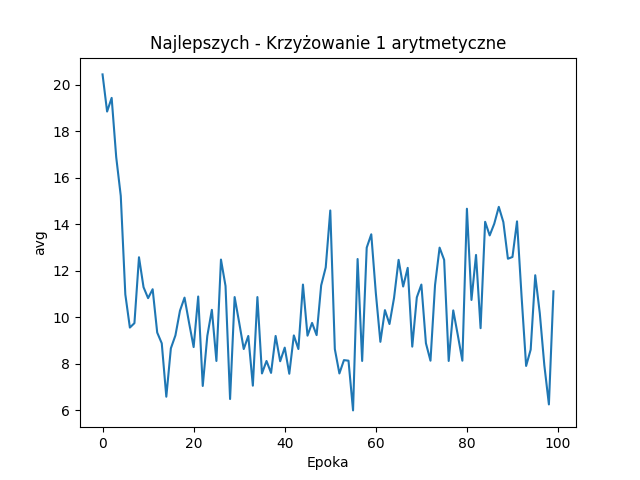
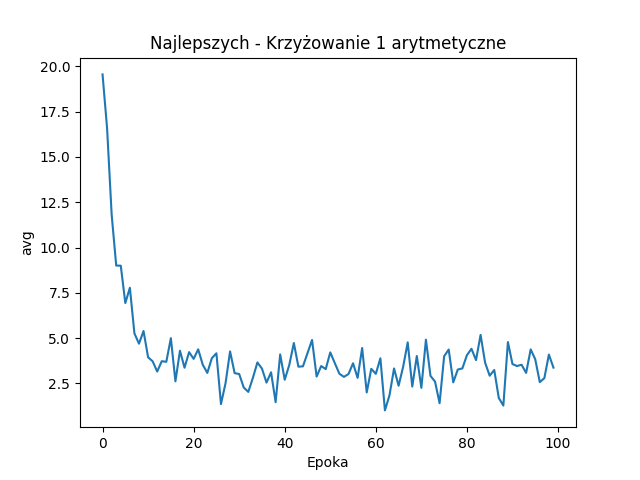
fixed mutations

diff --git a/main.py b/main.py
@@ -18,8 +18,8 @@ class MainWindow(QWidget):
     numberOfDimensions = 2
     q = 1
     tournament_size = 1
-    mean = 50
-    sigma = 5
+    mean = 0
+    sigma = 1
     start_value = -5  # Dodajemy deklarację atrybutu start_value
     end_value = 5
    
@@ -124,11 +124,11 @@ class MainWindow(QWidget):
                 self.mutationName = MutationMechods.UNIFORM_STRING.value
                 self.mutation_method = MutationMechods.UNIFORM
             case MutationMechods.GAUSS.value:
-                self.mean_label.setText(f'Średnia {self.mean_slider.value()}')
+                self.mean_label.setText(f'Średnia {self.mean_slider.value()/10}')
                 self.mean_label.show()
                 self.mean_slider.valueChanged.connect(self.set_mean)
                 self.mean_slider.show()
-                self.sigma_label.setText(f'Odchylenie standardowe {self.sigma_slider.value()}')
+                self.sigma_label.setText(f'Odchylenie standardowe {self.sigma_slider.value()/10}')
                 self.sigma_label.show()
                 self.sigma_slider.valueChanged.connect(self.set_sigma)
                 self.sigma_slider.show()
@@ -182,11 +182,11 @@ class MainWindow(QWidget):
         self.inversionProbLabel.setText(f'Prawdopodobieństwo inwersji {self.inversionProb}')
 
     def set_mean(self, val):
-        self.meanValue = val
+        self.meanValue = val / 10
         self.mean_label.setText(f'Średnia {self.meanValue}')
 
     def set_sigma(self, val):
-        self.sigmaValue = val
+        self.sigmaValue = val / 10
         self.sigma_label.setText(f'Odchylenie standardowe {self.sigmaValue}')
 
     def set_q(self, val):
@@ -207,11 +207,25 @@ class MainWindow(QWidget):
             self.func = FunctionsOptions.RASTRIGIN
             self.start_value = -5
             self.end_value = 5
-            
+            self.start_value_slider.setMinimum(-20)
+            self.start_value_slider.setMaximum(20)
+            self.start_value_slider.setValue(self.start_value) 
+            self.end_value_slider.setMinimum(-20)
+            self.end_value_slider.setMaximum(20)
+            self.end_value_slider.setValue(self.end_value)
+
+
         else:
             self.func = FunctionsOptions.SCHWEFEK
             self.start_value = -500
             self.end_value = 500
+            self.start_value_slider.setMinimum(-1000)
+            self.start_value_slider.setMaximum(1000) 
+            self.start_value_slider.setValue(self.start_value)
+            self.end_value_slider.setMinimum(-1000)
+            self.end_value_slider.setMaximum(1000)
+            self.end_value_slider.setValue(self.end_value)
+ 
         
         self.start_value_label.setText(f'Początkowy zakres: {self.start_value}')
         self.end_value_label.setText(f'Końcowy zakres: {self.end_value}')
@@ -291,17 +305,16 @@ class MainWindow(QWidget):
         #Range
         self.start_value_label = QLabel(f'Początkowy zakres: {self.start_value}')
         layout_items.append(self.start_value_label)
+        self.start_value_slider = makeSlider(-20, 20, self.start_value)
+        self.start_value_slider.valueChanged.connect(self.set_start_value)
+        layout_items.append(self.start_value_slider)
 
-        start_value_slider = makeSlider(-20 if self.rastrigin_radio.isChecked() else -1000, 20 if self.rastrigin_radio.isChecked() else 1000, self.start_value)
-        start_value_slider.valueChanged.connect(self.set_start_value)
-        layout_items.append(start_value_slider)
-
+        
         self.end_value_label = QLabel(f'Końcowy zakres: {self.end_value}')
         layout_items.append(self.end_value_label)
-
-        end_value_slider = makeSlider(-20 if self.rastrigin_radio.isChecked() else -1000, 20 if self.rastrigin_radio.isChecked() else 1000, self.end_value)
-        end_value_slider.valueChanged.connect(self.set_end_value)
-        layout_items.append(end_value_slider)
+        self.end_value_slider = makeSlider(-20, 20, self.end_value)
+        self.end_value_slider.valueChanged.connect(self.set_end_value)
+        layout_items.append(self.end_value_slider)
 
 
         # Epoch
@@ -410,7 +423,7 @@ class MainWindow(QWidget):
         self.mean_label.hide()
         layout_items.append(self.mean_label)
 
-        self.mean_slider = makeSlider(1, 1000, self.mean)
+        self.mean_slider = makeSlider(0, 5, self.mean)
         self.mean_slider.hide()
         layout_items.append(self.mean_slider)
 
@@ -418,7 +431,7 @@ class MainWindow(QWidget):
         self.sigma_label.hide()
         layout_items.append(self.sigma_label)
 
-        self.sigma_slider = makeSlider(1, 500, self.sigma)
+        self.sigma_slider = makeSlider(0, 5, self.sigma)
         self.sigma_slider.hide()
         layout_items.append(self.sigma_slider)
 

diff --git a/Helpers/mutationMethods.py b/Helpers/mutationMethods.py
@@ -22,7 +22,8 @@ class UniformMutation(MutationMethod):
                 mutated_random_index = random.randint(0, len(mutated_individual) - 1)
                 mutation_value = random.uniform(self.start_value, self.end_value) 
                 mutated_individual[mutated_random_index] = mutation_value
-                mutated_individual[i] = max(min(mutated_individual[i], self.start_value), self.end_value) 
+                print(mutated_individual[i])
+                #mutated_individual[i] = max(min(mutated_individual[i], self.start_value), self.end_value) 
 
             else:
                 mutated_individual[i] = individual[i]
@@ -40,9 +41,10 @@ class GaussMutation(MutationMethod):
         mutated_individual = individual.copy()
         for i in range(self.number_of_dimensions):
             if random.random() < mutation_rate:
-                mutation_value = np.random.normal(self.mean, self.sigma)
+                mutation_value = random.gauss(self.mean, self.sigma)
                 mutated_individual[i] += mutation_value
-                mutated_individual[i] = max(min(mutated_individual[i], self.start_value), self.end_value)
+                #mutated_individual[i] = max(min(mutated_individual[i], self.start_value), self.end_value)
+                print(mutated_individual[i])
             else:
                 mutated_individual[i] = individual[i]
         return mutated_individual
